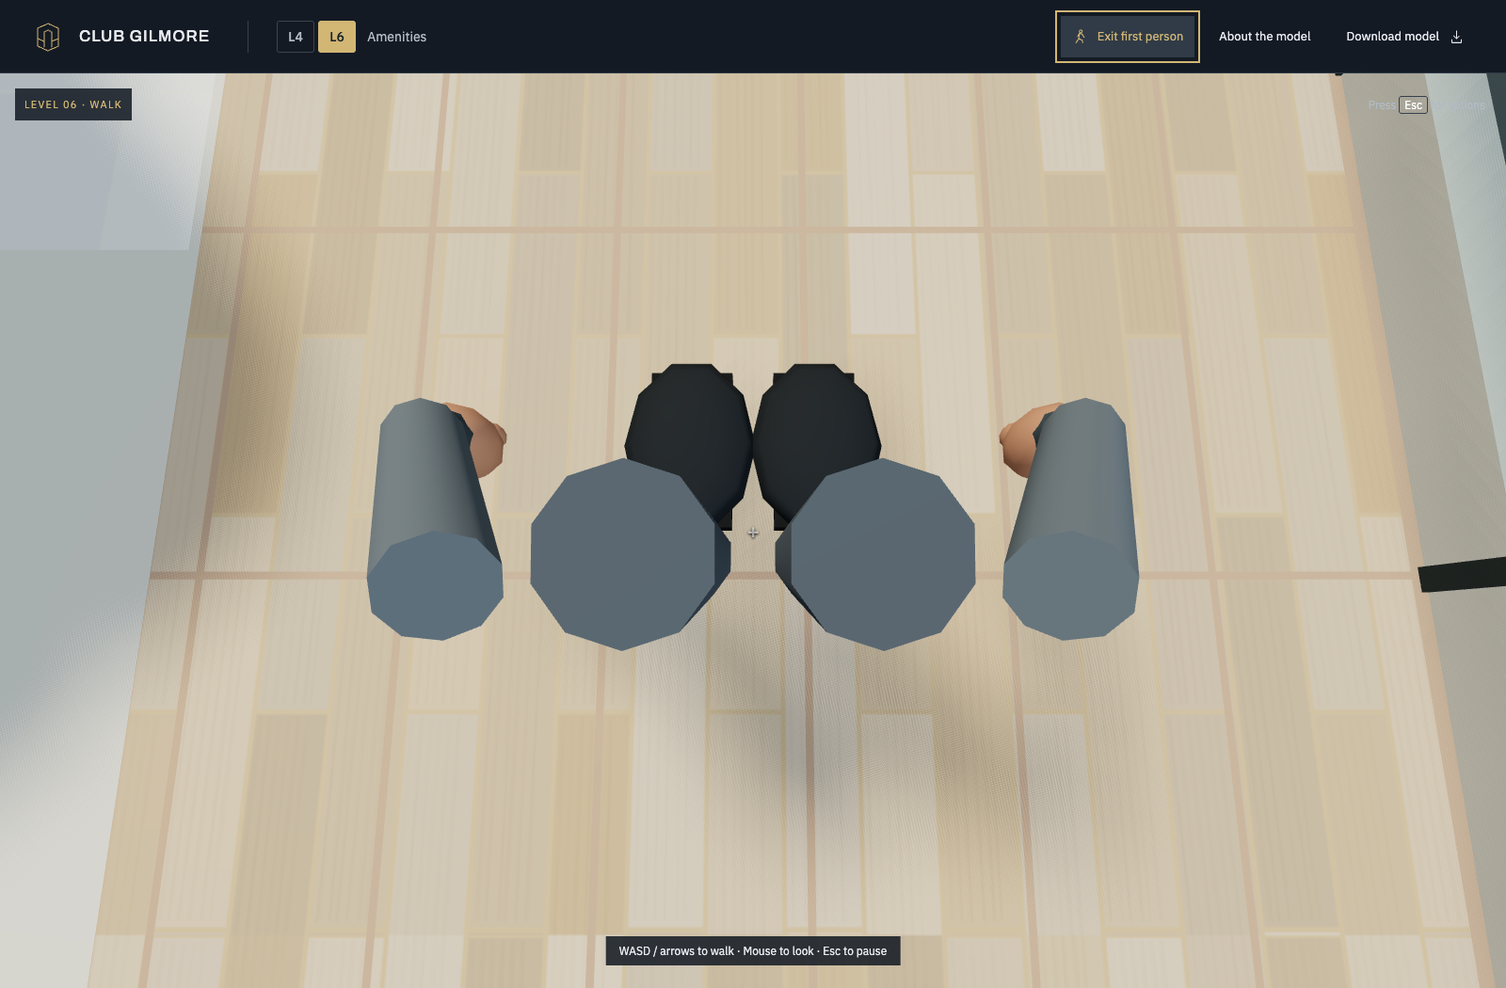
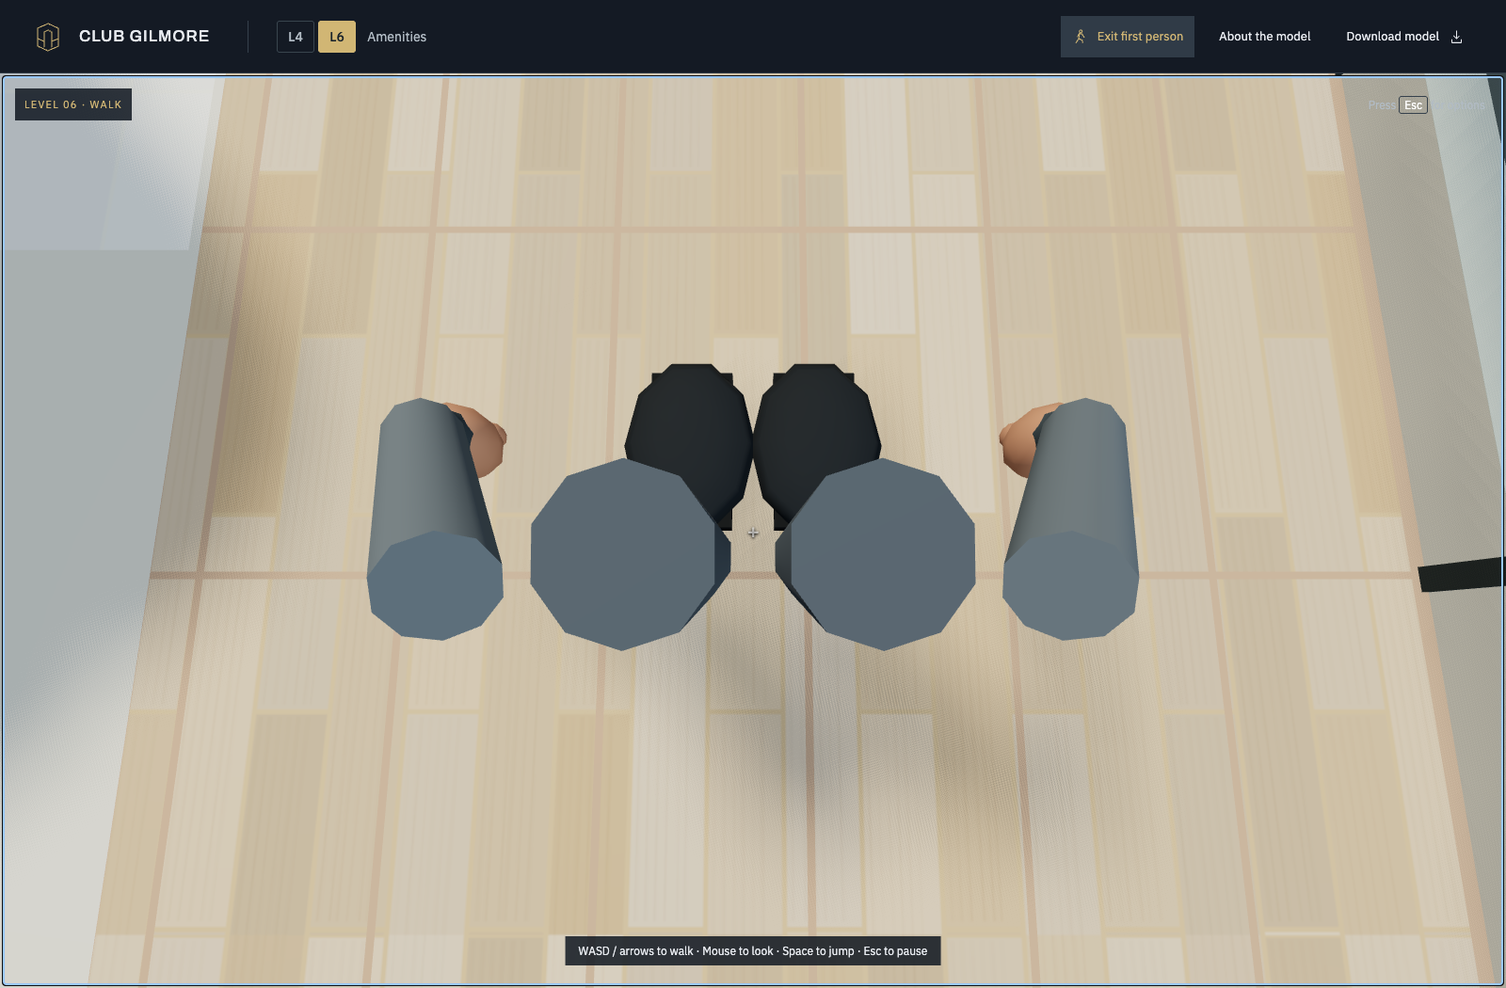
Implement jump feature in first-person navigation and update UI instructions

diff --git a/src/style.css b/src/style.css
@@ -21,12 +21,13 @@ body.first-person .room-browser,body.first-person .detail,body.first-person .vie
 .fp-card>svg{width:48px;height:48px;color:var(--gold)}
 .fp-sticks{display:none}.fp-stick{position:absolute;bottom:max(24px,env(safe-area-inset-bottom));width:120px;height:140px;border:1px solid #d1b67488;border-radius:60px;background:#141a2488;pointer-events:auto;touch-action:none;user-select:none;-webkit-user-select:none}
 #fp-move-stick{left:max(28px,env(safe-area-inset-left))}#fp-look-stick{right:max(28px,env(safe-area-inset-right))}
+#fp-jump{position:absolute;right:calc(max(28px,env(safe-area-inset-right)) + 24px);bottom:calc(max(24px,env(safe-area-inset-bottom)) + 156px);width:72px;height:72px;border:1px solid #d1b67488;border-radius:50%;background:#141a24cc;font-size:12px;pointer-events:auto;user-select:none;-webkit-user-select:none}
 .stick-thumb{position:absolute;left:calc(50% - 23px);top:calc(50% - 23px);width:46px;height:46px;border-radius:50%;background:#d1b674aa;border:1px solid #f0d69e;pointer-events:none}
 .stick-label{position:absolute;left:0;right:0;bottom:7px;text-align:center;font-size:11px;color:#fff;pointer-events:none}
 @media not all and (pointer:coarse){#fp-pause,body:not(.fp-paused) .fp-toolbar button,body.fp-paused .fp-esc-note{display:none}}.fp-esc-note{font-size:12px;color:var(--muted);padding:0 6px}.fp-esc-note kbd{font:inherit;color:#fff;border:1px solid var(--line);border-radius:3px;padding:1px 5px}
 @media(pointer:coarse){.fp-sticks{display:block}.fp-help{display:none}.fp-esc-note{display:none}}
 @media(max-width:1100px){#first-person-button span{position:absolute;width:1px;height:1px;padding:0;margin:-1px;overflow:hidden;clip:rect(0,0,0,0);white-space:nowrap}#first-person-button{min-width:44px;min-height:44px;padding:10px}}
-@media(max-height:500px){body.first-person .topbar{height:52px}body.first-person #app{height:calc(100dvh - 52px)}.fp-toolbar{top:8px;left:12px;right:12px}.fp-toolbar button{padding:8px 10px}.fp-stick{width:108px;height:120px;bottom:max(14px,env(safe-area-inset-bottom))}.fp-card{padding:14px;max-width:450px}.fp-card h2{margin:6px}.fp-card p{margin:8px}}
+@media(max-height:500px){body.first-person .topbar{height:52px}body.first-person #app{height:calc(100dvh - 52px)}.fp-toolbar{top:8px;left:12px;right:12px}.fp-toolbar button{padding:8px 10px}.fp-stick{width:108px;height:120px;bottom:max(14px,env(safe-area-inset-bottom))}.fp-card{padding:14px;max-width:450px}.fp-card h2{margin:6px}.fp-card p{margin:8px}#fp-jump{right:calc(max(28px,env(safe-area-inset-right)) + 18px);bottom:calc(max(14px,env(safe-area-inset-bottom)) + 132px)}}
 
 :root{font-family:'IBM Plex Sans',sans-serif;color:#e7eaef;background:#141a24;font-synthesis:none;--navy:#141a24;--panel:#1c242e;--line:#36414c;--muted:#b1bbc4;--gold:#d1b674;--text:#e7eaef;color-scheme:dark}
 *{box-sizing:border-box}body{margin:0;overflow:hidden}button,input,select{font:inherit}button,a,input,select{-webkit-tap-highlight-color:transparent}button,a{touch-action:manipulation}button{cursor:pointer;color:inherit}button:disabled{opacity:.38;cursor:default}button{border:0}button:focus-visible,a:focus-visible,input:focus-visible,select:focus-visible{outline:2px solid var(--gold);outline-offset:4px}::selection{background:#d1b674;color:#141a24}input{caret-color:var(--gold)}[hidden]{display:none!important}svg{width:20px;height:20px;fill:none;stroke:currentColor;stroke-width:1.5;stroke-linecap:round;stroke-linejoin:round;flex-shrink:0}h1,h2,.brand{font-family:'Archivo',sans-serif;font-weight:500}a{color:inherit;text-underline-offset:4px}button{transition:background .15s,color .15s}button:hover{background:#303b47}.topbar{height:78px;border-bottom:1px solid #303a45;display:flex;align-items:center;padding:0 32px;gap:40px;position:relative;z-index:6;background:var(--navy)}.brand{display:flex;align-items:center;gap:14px;text-decoration:none;font-size:17px;letter-spacing:.055em}.brand svg{width:38px;height:38px;color:var(--gold);stroke-width:1}.location{display:flex;align-items:center;gap:12px;font-size:14px;color:var(--muted);padding-left:30px;border-left:1px solid var(--line)}.level-mark{color:var(--gold);font-weight:500}.top-actions{margin-left:auto;display:flex;gap:14px}.quiet-button{display:flex;align-items:center;gap:10px;background:transparent;padding:12px;font-size:13px}.quiet-button svg{width:17px}#app{height:calc(100dvh - 78px);position:relative}#viewport{position:absolute;inset:0;overflow:hidden;background:#18212b}#scene{position:absolute;inset:0}#scene canvas{display:block;width:100%;height:100%;touch-action:none;outline-offset:-4px}.view-heading{position:absolute;left:344px;top:28px;pointer-events:none}.view-heading h1{margin:0 0 8px;font-size:26px;letter-spacing:-.025em}.view-heading p{color:var(--muted);font-size:14px;margin:0}.room-browser{position:absolute;left:24px;top:24px;width:282px;max-height:calc(100% - 105px);background:var(--navy);border:1px solid var(--line);display:flex;flex-direction:column;z-index:4;box-shadow:0 14px 35px #0002;border-radius:3px;overflow:hidden}.browser-toggle{padding:19px 18px 15px;text-align:left;background:transparent;font-family:'Archivo',sans-serif;font-size:17px;display:flex;justify-content:space-between;align-items:center;min-height:54px}.browser-toggle svg{width:17px}#browser-content{min-height:0;display:flex;flex-direction:column;overflow:hidden}.search-wrap{position:relative;flex-shrink:0;margin:0 16px 12px}.search-wrap svg{position:absolute;left:12px;top:12px;width:16px;color:var(--muted)}input{background:#222c36;border:1px solid transparent;border-radius:3px;color:var(--text);padding:11px 10px 11px 36px;width:100%;font-size:13px;min-height:44px}input::placeholder{color:var(--muted)}.filter-label{position:absolute;left:29px;top:135px;pointer-events:none;color:var(--muted);font-size:12px}select{margin:0 16px 12px;background:transparent;border:1px solid var(--line);border-radius:3px;color:var(--text);height:40px;min-height:40px;padding:0 30px 0 51px;font-size:12px}select option{background:var(--navy)}.list-meta{padding:5px 18px 12px;display:flex;justify-content:space-between;font-size:10px;color:var(--muted);letter-spacing:.06em}.room-list{overflow-y:auto;min-height:0;scrollbar-color:#4e5a66 transparent;scrollbar-width:thin;padding:0 8px;flex:1}.room-item{width:100%;background:transparent;display:flex;align-items:center;gap:11px;text-align:left;padding:11px 9px;min-height:49px;border-bottom:1px solid #29333e;font-size:13px;border-radius:2px}.room-item .room-symbol{color:#b9a06b;width:17px;height:17px;flex-shrink:0}.room-item .room-arrow{width:15px;margin-left:auto;color:#7e8e9b;flex-shrink:0}.room-item[aria-pressed=true]{background:#303738;color:#f0d69e}.room-item:hover{background:#26323d}.room-item span{flex:1}.browser-foot{display:flex;align-items:center;gap:9px;font-size:11px;color:var(--muted);padding:15px 17px;border-top:1px solid var(--line);flex-shrink:0}.status-dot{height:5px;width:5px;border-radius:50%;background:var(--gold)}#empty{padding:8px 16px 18px;font-size:13px;color:var(--muted)}.camera-controls{position:absolute;bottom:47px;left:calc(50% + 125px);transform:translateX(-50%);display:flex;align-items:center;padding:6px;background:var(--navy);border:1px solid #3e4853;border-radius:5px;box-shadow:0 8px 25px #0003;white-space:nowrap;z-index:3}.view-switch{display:flex}.view-switch button{font-size:12px;background:transparent;padding:12px 14px;border-radius:2px;min-height:44px}.view-switch button[aria-pressed=true]{background:#d1b674;color:#18212b}.icon-button{background:transparent;display:inline-flex;justify-content:center;align-items:center;width:42px;height:44px;min-width:42px;border-radius:3px}.icon-button[aria-pressed=true]{color:var(--gold)}.control-separator{height:22px;width:1px;background:#46515a;margin:0 7px}.view-help{position:absolute;bottom:20px;left:calc(50% + 125px);transform:translateX(-50%);font-size:11px;color:#b1bbc4;white-space:nowrap}.view-help b{font-weight:400;color:#657380;margin:0 10px}.mobile-help{display:none}.compass{position:absolute;right:28px;top:28px;display:flex;align-items:center;flex-direction:column;gap:2px;color:var(--gold);font-size:11px;pointer-events:none}.compass svg{width:38px;height:38px;fill:#b7a374;stroke:var(--navy)}.scale{position:absolute;right:30px;bottom:23px;display:flex;flex-direction:column;align-items:center;font-size:10px;color:var(--muted);gap:5px}.scale>span:first-child{width:70px;height:6px;border-bottom:1px solid #a7b2bb;border-right:1px solid #a7b2bb;border-left:1px solid #a7b2bb}#labels{position:absolute;inset:0;pointer-events:none}.model-label{position:absolute;left:0;top:0;color:#eff1ec;background:#152029e8;border:1px solid #4e5a5f;padding:5px 8px;font-size:10px;border-radius:2px;white-space:nowrap;transform:translate(-50%,-50%);pointer-events:none;box-shadow:0 2px 4px #0002}.model-label.selected{color:#19212a;background:var(--gold);border-color:var(--gold)}#hover-label{position:absolute;pointer-events:none;background:#111a23;color:#ebd298;border:1px solid #67706b;padding:8px 12px;font-size:12px;border-radius:3px;z-index:5}#loading{position:absolute;inset:0;display:flex;align-items:center;justify-content:center;flex-direction:column;background:#18212b;z-index:2;font-size:14px;color:var(--muted)}.loading-ring{width:35px;height:35px;border-radius:50%;border:1px solid #3f4c58;border-top:1px solid var(--gold);animation:spin 1s linear infinite}@keyframes spin{to{transform:rotate(360deg)}}#webgl-error{position:absolute;top:35%;left:40%;max-width:420px;padding:24px;background:var(--navy);border:1px solid var(--line)}#webgl-error h2{font-size:22px}#webgl-error p{color:var(--muted);line-height:1.6}.detail{position:absolute;right:22px;top:22px;bottom:111px;width:330px;background:var(--navy);border:1px solid var(--line);border-radius:3px;overflow:auto;scrollbar-width:thin;scrollbar-color:#4e5a66 transparent;z-index:5;box-shadow:0 14px 35px #0003;padding:0 21px}.detail-top{display:flex;justify-content:space-between;align-items:center;margin-top:8px;font-size:12px;color:var(--gold)}.detail-top button{margin-right:-12px}.detail h2{font-size:25px;line-height:1.18;letter-spacing:-.025em;margin:8px 0 21px;outline:0}.photo-wrap{position:relative;margin:0 -21px;background:#283540}.photo-wrap img{display:block;width:100%;height:222px;object-fit:cover}.photo-controls{display:flex;align-items:center;justify-content:space-between;background:#202a34;padding:0 8px;font-size:11px;color:var(--muted)}.photo-controls .icon-button{height:38px}.detail-description{font-size:13px;line-height:1.65;color:#b8c2ca;margin:20px 0}#detail-measure{color:var(--gold);font-size:12px}.detail-location{border-top:1px solid var(--line);border-bottom:1px solid var(--line);padding:14px 0;display:flex;justify-content:space-between;gap:10px;font-size:11px;color:var(--muted)}.detail-location strong{font-weight:400;color:var(--text)}#booking-note{font-size:12px;color:var(--muted);line-height:1.6;margin:17px 0}#booking-link{display:flex;justify-content:space-between;padding:13px 15px;margin:20px 0 10px;background:var(--gold);color:var(--navy);font-size:13px;text-decoration:none;border-radius:3px}.text-button{padding:13px 0;display:flex;gap:10px;align-items:center;background:transparent;color:var(--gold);font-size:12px;margin-bottom:12px}.text-button svg{width:16px}#no-photo{color:var(--muted);background:#222c36;padding:20px;line-height:1.7;font-size:13px}dialog{border:1px solid #4b555f;background:var(--navy);color:var(--text);width:min(550px,calc(100% - 36px));padding:35px;border-radius:5px;box-shadow:0 30px 80px #0006}dialog::backdrop{background:#071018b3}dialog>button{position:absolute;right:10px;top:10px}dialog h2{font-size:28px;line-height:1.2;margin:10px 20px 22px 0}dialog p{font-size:14px;color:var(--muted);line-height:1.75}dialog dl{padding:10px 0;border-top:1px solid var(--line);border-bottom:1px solid var(--line)}dialog dl div{display:flex;gap:24px;font-size:13px;padding:9px 0}dialog dt{min-width:90px;color:var(--gold)}dialog dd{margin:0}.sr-only{position:absolute;width:1px;height:1px;padding:0;margin:-1px;overflow:hidden;clip:rect(0,0,0,0);white-space:nowrap;border:0}

diff --git a/src/firstPerson/FirstPersonController.js b/src/firstPerson/FirstPersonController.js
@@ -3,6 +3,8 @@ import { FirstPersonInput } from './FirstPersonInput.js';
 
 const DEFAULTS = { spawn: new Vector3(), yaw: 0, floorHeight: 0, eyeHeight: 1.68, walkSpeed: 2.2 };
 const clamp = (value, min, max) => Math.min(max, Math.max(min, value));
+// Cosmetic hop: eye height only, navigation stays 2D so railings still block mid-air.
+const GRAVITY = 9.8, JUMP_HEIGHT = .9; // ~3 ft peak, below railing height
 
 export class FirstPersonController {
   constructor({ scene, domElement, navigationWorld, config = {}, onStateChange, requestRender, avatar } = {}) {
@@ -12,9 +14,9 @@ export class FirstPersonController {
     this.camera = new PerspectiveCamera(68, 1, .05, 500);
     this._position = this.config.spawn.clone(); this.yaw = this.config.yaw; this.pitch = 0;
     this._active = false; this._paused = false; this.avatar = null;
-    this.motionSpeed = 0; this.walkPhase = 0;
+    this.motionSpeed = 0; this.walkPhase = 0; this.jumpY = 0; this.jumpV = 0;
     this.euler = new Euler(0, 0, 0, 'YXZ');
-    this.input = new FirstPersonInput(domElement, { camera: this.camera, onLook: (x, y) => this.look(x, y), onPause: () => this.pause(), onActivity: () => this.requestRender?.(), onLockDenied: () => this.requestRender?.() });
+    this.input = new FirstPersonInput(domElement, { camera: this.camera, onLook: (x, y) => this.look(x, y), onPause: () => this.pause(), onJump: () => this.jump(), onActivity: () => this.requestRender?.(), onLockDenied: () => this.requestRender?.() });
     this.handlePointerLockLook = () => {
       if (!this._active || this._paused || !this.input.locked) return;
       this.euler.setFromQuaternion(this.camera.quaternion, 'YXZ');
@@ -38,7 +40,7 @@ export class FirstPersonController {
   }
   enter() {
     if (this._active) { this.resume(); return; }
-    this._active = true; this._paused = false; this._position.copy(this.config.spawn); this.yaw = this.config.yaw; this.pitch = 0; this.motionSpeed = 0;
+    this._active = true; this._paused = false; this.jumpY = this.jumpV = 0; this._position.copy(this.config.spawn); this.yaw = this.config.yaw; this.pitch = 0; this.motionSpeed = 0;
     this.input.setEnabled(true); if (this.avatar?.root) this.avatar.root.visible = true;
     this.syncCamera(); this.emit(); this.input.requestLock(); this.requestRender?.();
   }
@@ -56,6 +58,10 @@ export class FirstPersonController {
     if (!this._active) return this.enter();
     this._paused = false; this.input.setEnabled(true); this.emit(); this.input.requestLock(); this.requestRender?.();
   }
+  jump() {
+    if (!this._active || this._paused || this.jumpY || this.jumpV) return;
+    this.jumpV = Math.sqrt(2 * GRAVITY * JUMP_HEIGHT); this.requestRender?.();
+  }
   look(deltaYaw, deltaPitch) {
     if (!this._active || this._paused) return;
     this.yaw -= deltaYaw; this.pitch = clamp(this.pitch - deltaPitch, -Math.PI * .47, Math.PI * .47);
@@ -64,8 +70,9 @@ export class FirstPersonController {
   update(dt) {
     if (!this._active) return false;
     dt = Math.min(Math.max(dt || 0, 0), .1);
-    if (this._paused) { this.avatar?.update?.(dt, { position: this._position, yaw: this.yaw, moving: false, reducedMotion: matchMedia('(prefers-reduced-motion: reduce)').matches }); return false; }
+    if (this._paused) { this.avatar?.update?.(dt, { position: new Vector3(0, this.jumpY, 0).add(this._position), yaw: this.yaw, moving: false, reducedMotion: matchMedia('(prefers-reduced-motion: reduce)').matches }); return false; }
     this.input.update(dt);
+    if (this.jumpY || this.jumpV) { this.jumpV -= GRAVITY * dt; this.jumpY = Math.max(0, this.jumpY + this.jumpV * dt); if (!this.jumpY && this.jumpV < 0) this.jumpV = 0; }
     const reduceMotion = matchMedia('(prefers-reduced-motion: reduce)').matches;
     const move = this.input.movement, intended = Math.hypot(move.x, move.z) > .001;
     const targetSpeed = intended ? this.config.walkSpeed : 0;
@@ -86,7 +93,7 @@ export class FirstPersonController {
     if (moving && !reduceMotion) this.walkPhase += dt * (7 + this.motionSpeed * 2);
     this.syncCamera();
     if (moving && !reduceMotion) this.camera.position.y += Math.sin(this.walkPhase) * .018;
-    this.avatar?.update?.(dt, { position: this._position, yaw: this.yaw, moving, reducedMotion: reduceMotion });
+    this.avatar?.update?.(dt, { position: new Vector3(0, this.jumpY, 0).add(this._position), yaw: this.yaw, moving, reducedMotion: reduceMotion });
     if (moving) this.requestRender?.();
     return moving;
   }
@@ -94,10 +101,10 @@ export class FirstPersonController {
     this.camera.aspect = width / Math.max(1, height); this.camera.updateProjectionMatrix();
   }
   syncCamera() {
-    this.camera.position.copy(this._position); this.camera.position.y = this.config.floorHeight + this.config.eyeHeight;
+    this.camera.position.copy(this._position); this.camera.position.y = this.config.floorHeight + this.config.eyeHeight + this.jumpY;
     this.euler.set(this.pitch, this.yaw, 0, 'YXZ'); this.camera.quaternion.setFromEuler(this.euler);
   }
-  reset() { this._position.copy(this.config.spawn); this.yaw = this.config.yaw; this.pitch = 0; this.motionSpeed = 0; this.syncCamera(); this.emit(); this.requestRender?.(); }
+  reset() { this._position.copy(this.config.spawn); this.jumpY = this.jumpV = 0; this.yaw = this.config.yaw; this.pitch = 0; this.motionSpeed = 0; this.syncCamera(); this.emit(); this.requestRender?.(); }
   emit() { this.onStateChange?.({ active: this._active, paused: this._paused, position: this.position, yaw: this.yaw, camera: this.camera }); }
   dispose() { this.exit(); this.input.controls?.removeEventListener('change', this.handlePointerLockLook); this.input.dispose(); this.navigationWorld?.dispose?.(); this.avatar?.dispose?.(); if (this.avatar?.root?.parent) this.avatar.root.parent.remove(this.avatar.root); }
 }

diff --git a/index.html b/index.html
@@ -21,9 +21,9 @@
    <div id="fp-hud" hidden>
     <div class="fp-crosshair" aria-hidden="true">+</div>
     <div class="fp-toolbar"><span>LEVEL 06 · WALK</span><small class="fp-esc-note">Press <kbd>Esc</kbd> for options</small><button id="fp-speed" aria-label="Walking speed: Medium. Tap to change">Medium</button><button id="fp-reset">Back to start</button><button id="fp-pause">Pause</button><button id="fp-exit">Exit first person</button></div>
-    <p class="fp-help">WASD / arrows to walk · Mouse to look · Esc to pause</p>
-    <div class="fp-sticks"><div id="fp-move-stick" class="fp-stick" role="group" aria-label="Movement joystick"><span class="stick-thumb"></span><span class="stick-label">Move</span></div><div id="fp-look-stick" class="fp-stick" role="group" aria-label="Look joystick"><span class="stick-thumb"></span><span class="stick-label">Look</span></div></div>
-    <div id="fp-pause-overlay" class="fp-overlay" role="dialog" aria-modal="true" aria-labelledby="fp-pause-title" hidden><div class="fp-card"><h2 id="fp-pause-title">Take a moment.</h2><p>WASD or arrow keys to walk. Move your mouse to look around. If mouse capture is unavailable, drag to look.</p><button id="fp-resume">Resume walking</button><button id="fp-exit-paused">Return to model</button></div></div>
+    <p class="fp-help">WASD / arrows to walk · Mouse to look · Space to jump · Esc to pause</p>
+    <div class="fp-sticks"><div id="fp-move-stick" class="fp-stick" role="group" aria-label="Movement joystick"><span class="stick-thumb"></span><span class="stick-label">Move</span></div><div id="fp-look-stick" class="fp-stick" role="group" aria-label="Look joystick"><span class="stick-thumb"></span><span class="stick-label">Look</span></div><button id="fp-jump" type="button">Jump</button></div>
+    <div id="fp-pause-overlay" class="fp-overlay" role="dialog" aria-modal="true" aria-labelledby="fp-pause-title" hidden><div class="fp-card"><h2 id="fp-pause-title">Take a moment.</h2><p>WASD or arrow keys to walk, Space to jump. Move your mouse to look around. If mouse capture is unavailable, drag to look.</p><button id="fp-resume">Resume walking</button><button id="fp-exit-paused">Return to model</button></div></div>
    </div>
    <div class="view-heading"><h1>Explore Club Gilmore.</h1><p>Find your space. Take a closer look.</p></div>
    <div id="loading" role="status"><span class="loading-ring"></span><p>Preparing your view…</p></div>

diff --git a/src/main.js b/src/main.js
@@ -126,9 +126,9 @@ function enterFirstPerson(){
   firstPerson=new FirstPersonController({scene,domElement:renderer.domElement,navigationWorld,config:{...model.navigation,walkSpeed:speeds[speedIndex][1]},onStateChange:syncFirstPersonUI,requestRender});
   firstPerson.attachAvatar(new FirstPersonAvatar());
  }
- firstPerson.resize(vw,vh);firstPerson.enter();lastFrameTime=0;
+ firstPerson.resize(vw,vh);firstPerson.enter();lastFrameTime=0;renderer.domElement.focus({preventScroll:true});
  $('hover-label').hidden=true;renderer.domElement.style.cursor='default';
- syncFirstPersonUI();$('announcement').textContent='First person. WASD or arrow keys to walk, mouse to look. Escape to pause.';
+ syncFirstPersonUI();$('announcement').textContent='First person. WASD or arrow keys to walk, mouse to look, Space to jump. Escape to pause.';
 }
 function exitFirstPerson(){
  if(!walking())return;
@@ -142,6 +142,7 @@ $('fp-exit-paused').addEventListener('click',exitFirstPerson);
 $('fp-resume').addEventListener('click',()=>firstPerson?.resume());
 $('fp-pause').addEventListener('click',()=>firstPerson?.pause());
 $('fp-reset').addEventListener('click',()=>firstPerson?.reset());
+$('fp-jump').addEventListener('pointerdown',e=>{e.preventDefault();firstPerson?.jump()});$('fp-jump').addEventListener('click',()=>firstPerson?.jump());
 $('fp-speed').addEventListener('click',()=>{speedIndex=(speedIndex+1)%speeds.length;const[n,v]=speeds[speedIndex];if(firstPerson)firstPerson.config.walkSpeed=v;$('fp-speed').textContent=n;$('fp-speed').setAttribute('aria-label',`Walking speed: ${n}. Tap to change`)});
 $('about-button').addEventListener('click',()=>{if(walking())firstPerson.pause();});
 document.addEventListener('keydown',event=>{

diff --git a/src/firstPerson/FirstPersonInput.js b/src/firstPerson/FirstPersonInput.js
@@ -8,10 +8,11 @@ const MOVE_KEYS = new Set(['KeyW', 'KeyA', 'KeyS', 'KeyD', 'ArrowUp', 'ArrowLeft
  * of the scene or collision world: callers read `movement` and apply it.
  */
 export class FirstPersonInput {
-  constructor(canvas, { camera, onLook, onPause, onActivity, onLockDenied } = {}) {
+  constructor(canvas, { camera, onLook, onPause, onJump, onActivity, onLockDenied } = {}) {
     this.canvas = canvas;
     this.onLook = onLook;
     this.onPause = onPause;
+    this.onJump = onJump;
     this.onActivity = onActivity;
     this.onLockDenied = onLockDenied;
     this.enabled = false;
@@ -113,10 +114,12 @@ export class FirstPersonInput {
   handleKeyDown(event) {
     if (this.enabled && event.code === 'Escape' && !this.isTypingTarget(event.target)) { this.clear(); this.onPause?.('escape'); return; }
     if (this.isTypingTarget(event.target)) return;
+    if (this.enabled && event.code === 'Space') { event.preventDefault(); if (!event.repeat) this.onJump?.(); return; }
     if (!this.enabled || !MOVE_KEYS.has(event.code)) return;
     this.keys.add(event.code); event.preventDefault(); this.onActivity?.();
   }
-  handleKeyUp(event) { if (MOVE_KEYS.has(event.code)) this.keys.delete(event.code); }
+  // Space on keyup would otherwise "click" whatever button has focus (e.g. the entry button, exiting first person).
+  handleKeyUp(event) { if (this.enabled && event.code === 'Space' && !this.isTypingTarget(event.target)) event.preventDefault(); if (MOVE_KEYS.has(event.code)) this.keys.delete(event.code); }
   handleBlur() { this.clear(); this.onPause?.('blur'); }
   handleVisibility() { if (document.hidden) { this.clear(); this.onPause?.('hidden'); } }
   handleOrientation() { this.clear(); }

diff --git a/docs/level-6-first-person-plan.md b/docs/level-6-first-person-plan.md
@@ -51,7 +51,7 @@ The player will spawn on the marked east circulation path at approximately trace
 - Enable the button whenever a model exposes `navigation`; Level 4 will not expose it during this stage.
 - Preserve the orthographic camera position, target, zoom, selected room, and panel state, restoring them exactly after exit.
 - Use a perspective camera with an approximately 68° field of view.
-- Keep movement horizontal with no jumping, swimming, stairs, or elevators.
+- Keep movement horizontal with no swimming, stairs, or elevators. (Revised: a cosmetic jump was added at the user's request — Space on desktop, a Jump button on touch — capped at 0.9 m (~3 ft). It only raises the eye height; navigation stays 2D, so railings and walls still block the player mid-air.)
 - Normalize diagonal movement and constrain vertical mouse look.
 - Clear held inputs on pause, blur, tab hiding, pointer-lock loss, and orientation changes.
 
